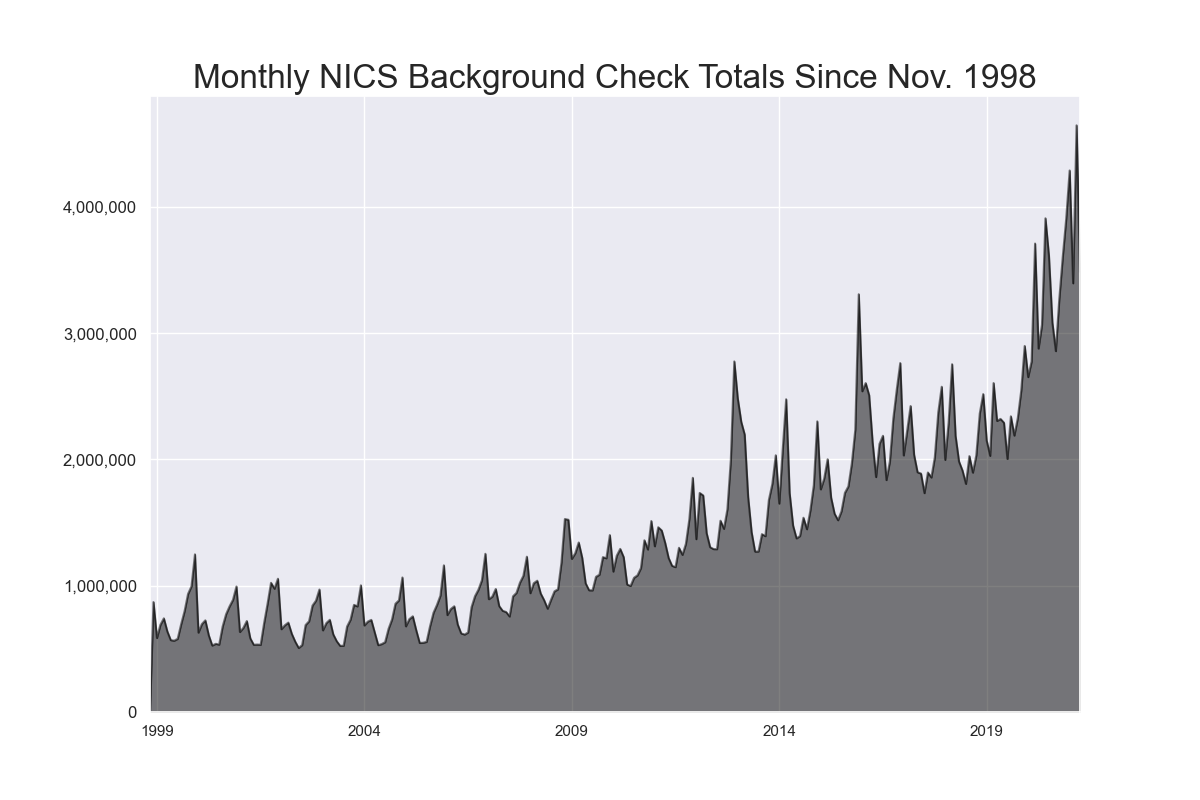
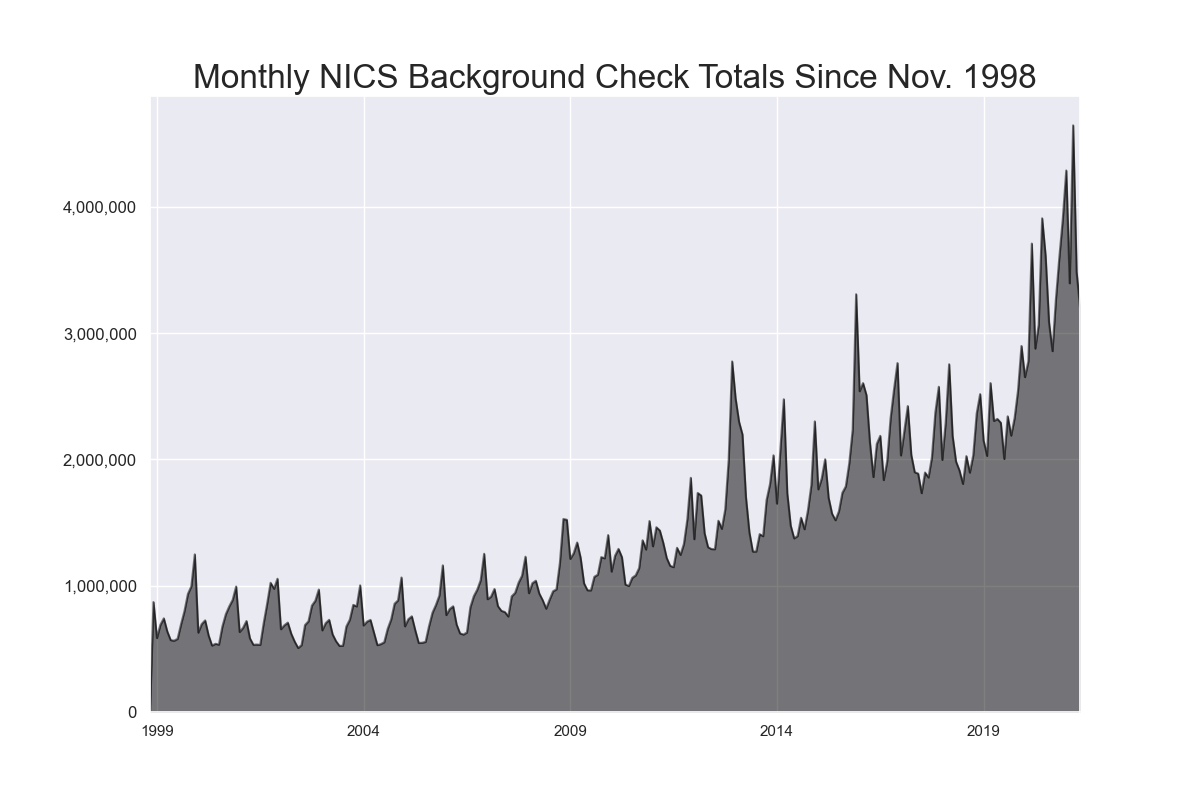
Add May 2021 data and charts

diff --git a/README.md b/README.md
@@ -4,7 +4,7 @@ The data in this repository comes from the [FBI's National Instant Criminal Back
 
 > Mandated by the Brady Handgun Violence Prevention Act of 1993 and launched by the FBI on November 30, 1998, NICS is used by Federal Firearms Licensees (FFLs) to instantly determine whether a prospective buyer is eligible to buy firearms or explosives. Before ringing up the sale, cashiers call in a check to the FBI or to other designated agencies to ensure that each customer does not have a criminal record or isn’t otherwise ineligible to make a purchase. More than 100 million such checks have been made in the last decade, leading to more than 700,000 denials.
 
-The FBI provides data on the number of firearm checks by month, state, and type — [but as a PDF](https://www.fbi.gov/file-repository/nics_firearm_checks_-_month_year_by_state_type.pdf/view). The code in this GitHub repository downloads that PDF, parses it, and produces a spreadsheet/CSV of the data. [__Click here to download the data__](data/nics-firearm-background-checks.csv?raw=true), which currently covers November 1998 – April 2021.
+The FBI provides data on the number of firearm checks by month, state, and type — [but as a PDF](https://www.fbi.gov/file-repository/nics_firearm_checks_-_month_year_by_state_type.pdf/view). The code in this GitHub repository downloads that PDF, parses it, and produces a spreadsheet/CSV of the data. [__Click here to download the data__](data/nics-firearm-background-checks.csv?raw=true), which currently covers November 1998 – May 2021.
 
 ## Notes On The Data
 
